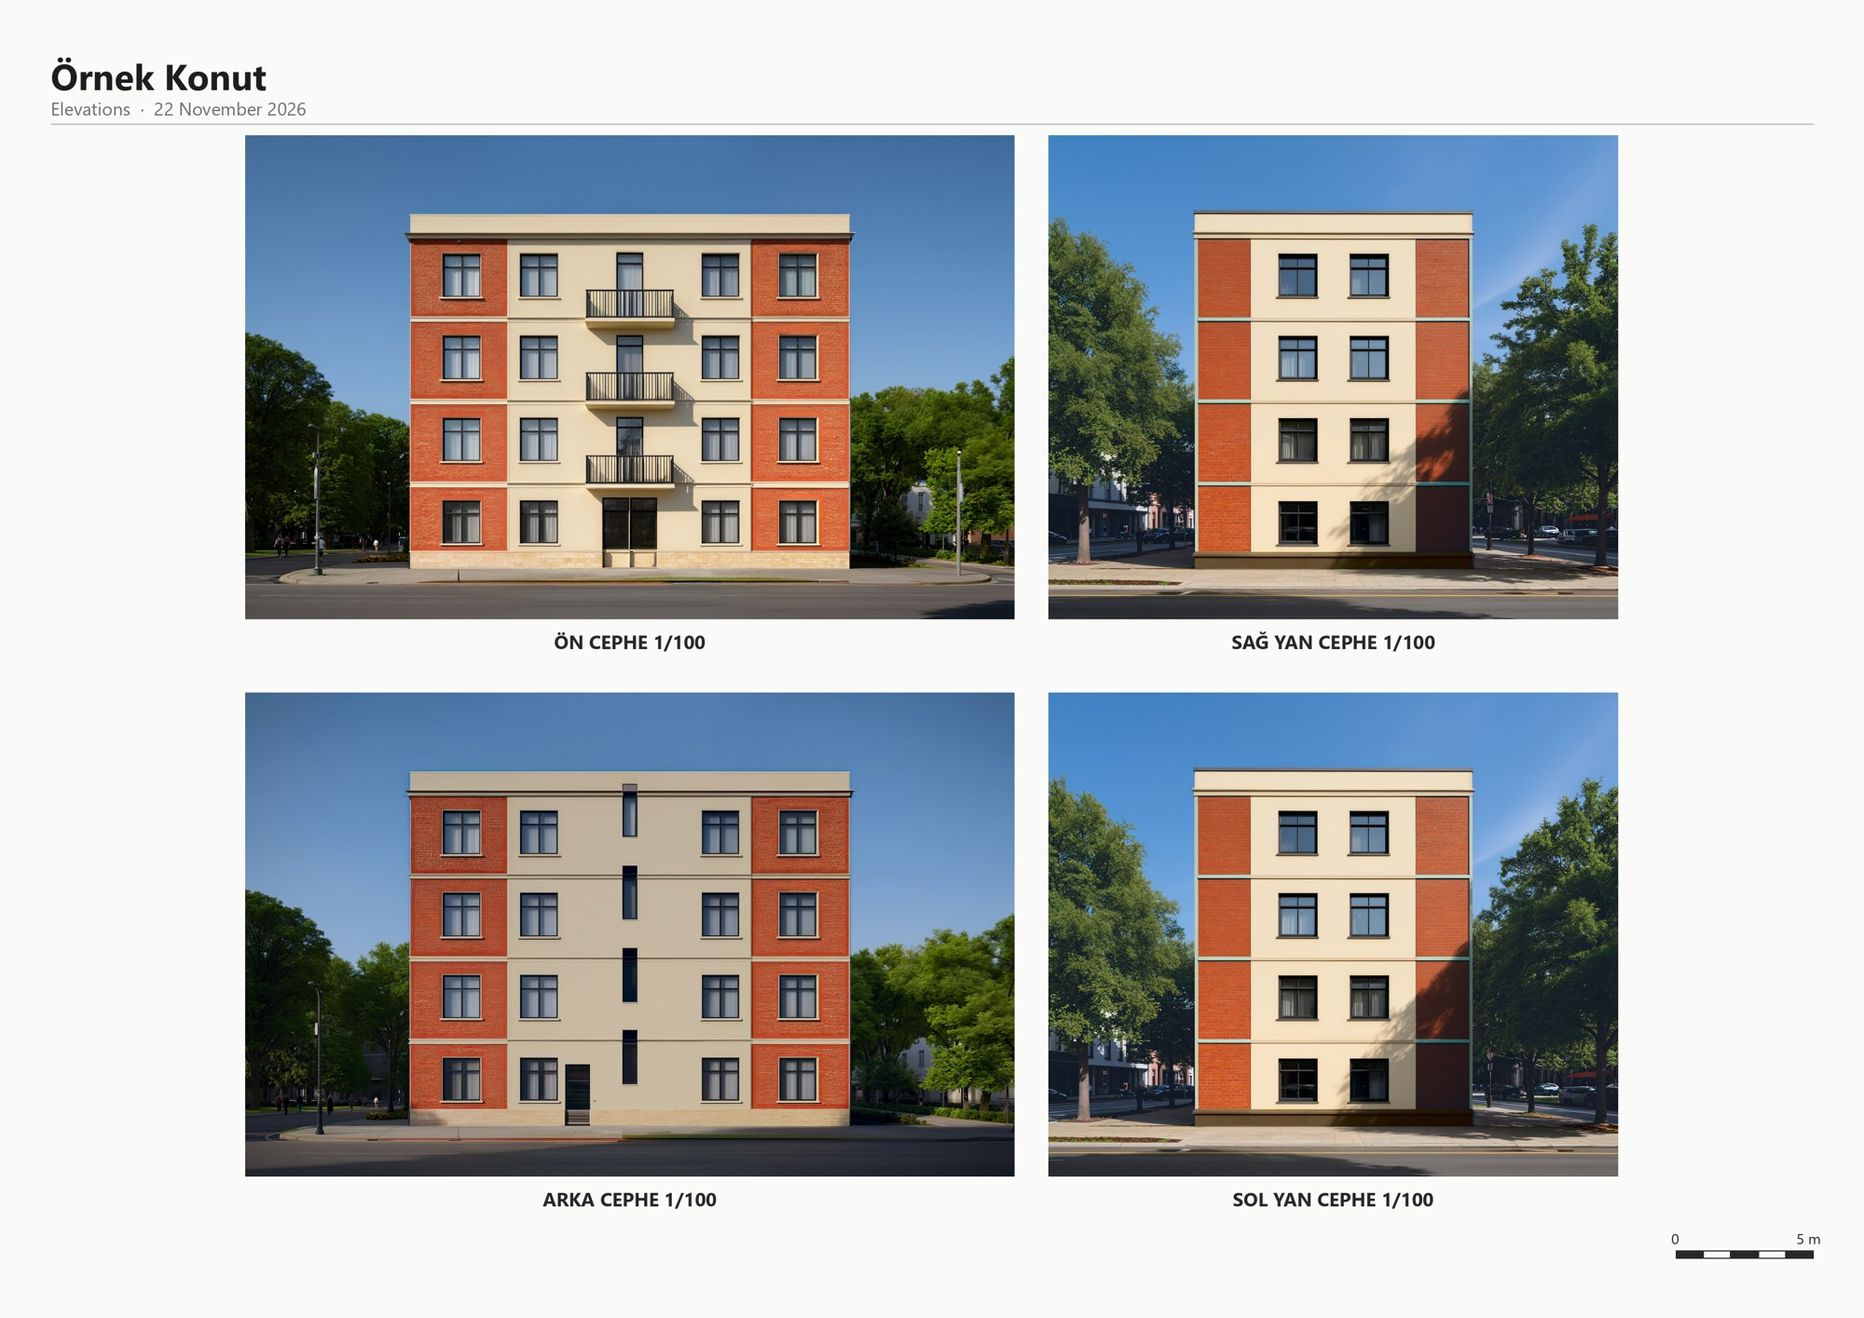
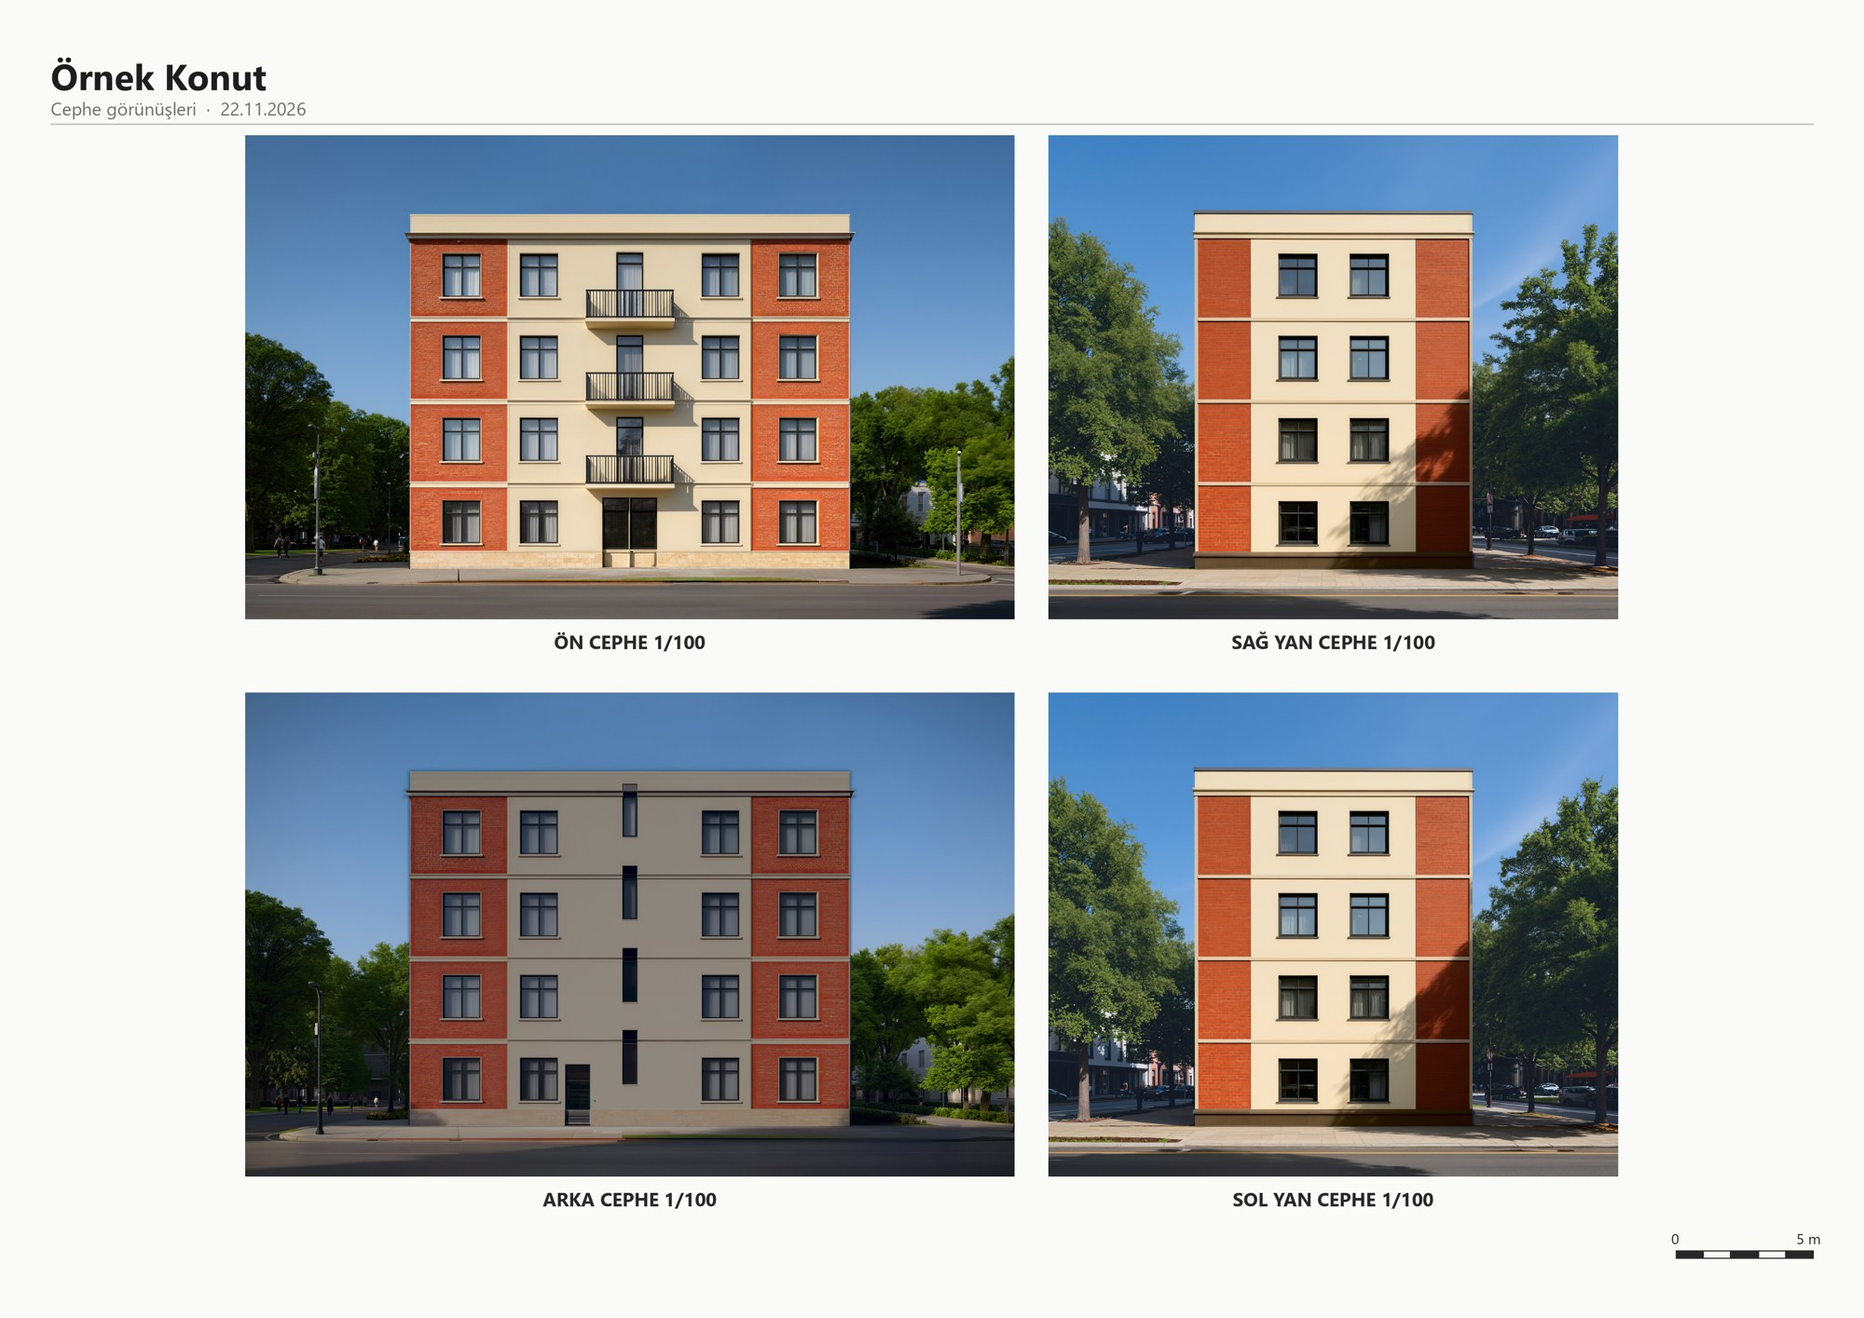
Fix showcase issues found in review
- Color matching shifts only a material's own pixels toward the hero facade
  (mean shift, no stretch), so a beige band inside a brick zone no longer
  turns mint.
- Shaded facades read as shaded: building darker, cooler and less saturated,
  with a soft shadow on the ground in front; surroundings stay sunlit.
- Drawing match treats two close parallel lines as one band; thresholds
  recalibrated (good 0.90, redraw below 0.84).
- The sample's name follows the render language, so the sheet is in one
  language.
- README: early-version note, demo note, updated limits; fresh images and
  demo from a Turkish render; unused screenshot removed.

diff --git a/core/harmonize.py b/core/harmonize.py
@@ -31,9 +31,25 @@ def _resize_mask(mask, size):
     return np.asarray(Image.fromarray(mask.astype(np.uint8) * 255).resize(size, Image.NEAREST)) > 127
 
 
+MATERIAL_SPREAD = 14.0  # Lab a/b distance at which a pixel stops counting as "the material"
+
+
 def _stats(lab, mask):
     px = lab[mask]
     return (px.mean(0), px.std(0) + 1e-3) if len(px) > 200 else None
+
+
+def _dominant_ab(lab, mask):
+    """The material's own a/b color in a zone: median of the pixels near the zone's median, so bands,
+    sills and windows inside the zone don't pull it. Returns ((a, b), count) or None."""
+    px = lab[mask][:, 1:]
+    if len(px) < 200:
+        return None
+    center = np.median(px, 0)
+    near = px[np.hypot(*(px - center).T) < MATERIAL_SPREAD]
+    if len(near) < 100:
+        return None
+    return np.median(near, 0), len(near)
 
 
 def regions(z):
@@ -60,17 +76,29 @@ def material_ok(image_path, area, expected_rgb, tol=40):
     return float(np.hypot(got[1] - want[1], got[2] - want[2])) < tol
 
 
-def shade_grade(image_path, sky_mask, out_path, darken=0.86, cool=4.0):
-    """A facade on the shadow side: a bit darker and cooler outside the sky, so the one-sun logic reads
-    across the set even where the model lit it too evenly."""
-    img = np.asarray(Image.open(image_path).convert("RGB"), np.float64)
-    lab = _srgb_to_lab(img)
-    m = ~_resize_mask(sky_mask, (img.shape[1], img.shape[0]))
-    lab[..., 0] = np.where(m, lab[..., 0] * darken, lab[..., 0])
-    lab[..., 2] = np.where(m, lab[..., 2] - cool, lab[..., 2])
+def shade_grade(image_path, building_mask, out_path, darken=0.64, cool=8.0, chroma=0.8, ground=0.18):
+    """A facade on the shadow side gets only skylight: the building clearly darker, cooler and less
+    saturated, and the ground just in front of it in its shadow (soft-edged), while the sky and the sunlit
+    surroundings stay as they are. The model tends to light every facade evenly; this makes the one-sun
+    logic read across the set."""
     from scipy import ndimage
-    diff = ndimage.gaussian_filter(_lab_to_srgb(lab) - img, sigma=(2, 2, 0))
-    Image.fromarray(np.clip(img + diff, 0, 255).astype(np.uint8)).save(out_path)
+    img = np.asarray(Image.open(image_path).convert("RGB"), np.float64)
+    H, W = img.shape[:2]
+    b = _resize_mask(building_mask, (W, H))
+    shade = ndimage.gaussian_filter(b.astype(np.float64), max(1.5, W / 800))
+    rows = np.flatnonzero(b.any(1))
+    cols = np.flatnonzero(b.any(0))
+    if rows.size:  # the building's own shadow on the ground in front: fades with distance, soft at the sides
+        y0, depth = rows[-1], max(1, int(ground * (rows[-1] - rows[0])))
+        ys = np.arange(y0, min(H, y0 + depth))
+        g = np.zeros((H, W))
+        g[ys[:, None], cols[None, :]] = (1 - (ys - y0) / depth)[:, None] * 0.75
+        shade = np.maximum(shade, ndimage.gaussian_filter(g, W / 120))
+    lab = _srgb_to_lab(img)
+    lab[..., 0] *= 1 - (1 - darken) * shade
+    lab[..., 1:] *= (1 - (1 - chroma) * shade)[..., None]
+    lab[..., 2] -= cool * shade
+    Image.fromarray(np.clip(_lab_to_srgb(lab), 0, 255).astype(np.uint8)).save(out_path)
 
 
 def harmonize(image_path, view_regions, hero_image_path, hero_regions, out_path, strength=0.8, skip=()):
@@ -84,13 +112,25 @@ def harmonize(image_path, view_regions, hero_image_path, hero_regions, out_path,
             continue
         m = _resize_mask(mask, (W, H))
         hm = _resize_mask(hero_regions[name], (hero.shape[1], hero.shape[0]))
-        s, hs = _stats(lab, m), _stats(hlab, hm)
-        if s is None or hs is None:
+        if name == "sky":
+            s, hs = _stats(lab, m), _stats(hlab, hm)
+            if s is None or hs is None:
+                continue
+            for c in (0, 1, 2):
+                target = (lab[..., c] - s[0][c]) * (hs[1][c] / s[1][c]) + hs[0][c]
+                result[..., c] = np.where(m, lab[..., c] + strength * (target - lab[..., c]), result[..., c])
             continue
-        chans = [0, 1, 2] if name == "sky" else [1, 2]
-        for c in chans:
-            target = (lab[..., c] - s[0][c]) * (hs[1][c] / s[1][c]) + hs[0][c]
-            result[..., c] = np.where(m, lab[..., c] + strength * (target - lab[..., c]), result[..., c])
+        # A material zone also holds things that aren't the material (a band crossing brick, sills, frames).
+        # Match only the material itself: its dominant color, shifted (not stretched) toward the hero's, and
+        # applied only to pixels near that color, so a beige band in a brick zone stays beige.
+        own, ref = _dominant_ab(lab, m), _dominant_ab(hlab, hm)
+        if own is None or ref is None:
+            continue
+        center, _ = own
+        dist = np.hypot(lab[..., 1] - center[0], lab[..., 2] - center[1])
+        weight = np.where(m, np.exp(-(dist / MATERIAL_SPREAD) ** 2), 0.0)
+        for c, (a, b) in zip((1, 2), zip(center, ref[0])):
+            result[..., c] += strength * weight * (b - a)
     # feather the edits a little so region borders don't show
     from scipy import ndimage
     blended = _lab_to_srgb(result)

diff --git a/core/fidelity.py b/core/fidelity.py
@@ -18,10 +18,11 @@ from . import geometry
 STEP = 2.0          # px between samples along a line
 ON = 2              # px either side of the line still counted as "on" it
 OFF = (5, 6, 7, 8)  # px either side where the texture beside the line is measured
+PARTNER = 7         # px: a parallel drawn line this close makes the two one band (see check)
 RATIO = 1.6         # an edge on the line must be this much stronger than beside it ...
 FLOOR = 0.035       # ... and at least this strong (luminance 0..1, Sobel / 8)
 WINDOW = 7          # samples smoothed along a line (~14 px), so single noisy samples don't decide
-GOOD, FAIR = 0.88, 0.80  # from past renders: blurry/drifted ones scored 0.75-0.82, sharp ones 0.88-0.97
+GOOD, FAIR = 0.90, 0.84  # from ~50 past renders (close double lines as bands): drifted or blurry 0.78-0.88, sharp 0.90-0.98
 
 
 def _gradients(img, size):
@@ -73,9 +74,22 @@ def check(view, scale, render):
         return np.abs(ndimage.map_coordinates(gx, c, order=1) * nx + ndimage.map_coordinates(gy, c, order=1) * ny)
 
     on = np.max([across(d) for d in range(-ON, ON + 1)], axis=0)
-    # beside the line, but not where another drawn line runs (double frame lines, mullions)
     control, _ = geometry.rasterize(view, scale)
-    near_line = ndimage.distance_transform_edt(np.asarray(control.convert("L")) == 0)
+    lines = np.asarray(control.convert("L")) > 0
+    near_line = ndimage.distance_transform_edt(~lines)
+    # Two drawn lines a few px apart (a band, a frame, a sill) often come out as one band with one strong
+    # edge: an edge anywhere between this line and its close neighbor counts for both.
+    reach = np.arange(-PARTNER, PARTNER + 1)
+    for s in (-1, 1):
+        partner = np.zeros(x.size)
+        for d in range(PARTNER, ON, -1):  # nearest partner wins
+            hitp = ndimage.map_coordinates(lines.astype(np.float32), [y + ny * d * s, x + nx * d * s], order=0) > 0
+            partner = np.where(hitp, d, partner)
+        if partner.any():
+            band = np.max([np.where((partner >= abs(d)) & (np.sign(d) == s), across(d), 0)
+                           for d in reach if d * s > ON], axis=0)
+            on = np.maximum(on, band)
+    # beside the line, but not where another drawn line runs (double frame lines, mullions)
     off_vals = []
     for d in OFF:
         for s in (-1, 1):

diff --git a/tests/test_core.py b/tests/test_core.py
@@ -200,3 +200,40 @@ def test_fidelity_follows_drawing(sheet, tmp_path):
     assert fidelity.check(v, scale, big)["score"] > 0.9
     out = fidelity.drift_map(big, bad["misses"], control.size, tmp_path / "drift.png")
     assert Image.open(out).size == big.size
+
+
+def test_harmonize_leaves_other_colors_in_a_material_zone(tmp_path):
+    """A beige band crossing a brick zone stays beige; only the brick moves toward the hero's brick."""
+    import numpy as np
+    from PIL import Image
+    from core.harmonize import _srgb_to_lab, harmonize
+    img = np.zeros((200, 200, 3), np.uint8)
+    img[:] = (190, 75, 45)          # brick
+    img[95:105] = (225, 210, 180)   # beige band inside the brick zone
+    hero = np.zeros_like(img)
+    hero[:] = (175, 85, 60)         # the hero's brick: a bit browner
+    Image.fromarray(img).save(tmp_path / "v.png")
+    Image.fromarray(hero).save(tmp_path / "h.png")
+    zone = np.ones((200, 200), bool)
+    harmonize(tmp_path / "v.png", {"mat:B": zone}, tmp_path / "h.png", {"mat:B": zone}, tmp_path / "o.png")
+    out = np.asarray(Image.open(tmp_path / "o.png").convert("RGB"), np.float64)
+    lab = lambda a: _srgb_to_lab(np.asarray(a, np.float64)[None, None])[0, 0]  # noqa: E731
+    band_before, band_after = lab(img[100, 100]), lab(out[100, 100])
+    assert np.hypot(*(band_after[1:] - band_before[1:])) < 3
+    brick_before, brick_after, target = lab(img[20, 20]), lab(out[20, 20]), lab(hero[20, 20])
+    assert np.hypot(*(brick_after[1:] - target[1:])) < 0.5 * np.hypot(*(brick_before[1:] - target[1:]))
+
+
+def test_shade_grade_darkens_the_building_not_the_surroundings(tmp_path):
+    import numpy as np
+    from PIL import Image
+    from core.harmonize import shade_grade
+    img = np.full((300, 400, 3), 200, np.uint8)
+    Image.fromarray(img).save(tmp_path / "f.png")
+    building = np.zeros((300, 400), bool)
+    building[60:220, 120:280] = True
+    shade_grade(tmp_path / "f.png", building, tmp_path / "f.png")
+    out = np.asarray(Image.open(tmp_path / "f.png").convert("L"), np.float64)
+    assert out[140, 200] < 0.8 * 200          # the facade is in shade
+    assert out[230, 200] < out[290, 200]      # its shadow on the ground fades away from it
+    assert abs(out[30, 30] - 200) < 2 and abs(out[150, 20] - 200) < 2  # sky and sunlit surroundings untouched

diff --git a/core/project.py b/core/project.py
@@ -196,7 +196,7 @@ class Project:
             else:
                 harmonize(raw, regs, hero[0], hero[1], final_png, skip=hero[2])
             if light == "shade":
-                shade_grade(final_png, z["sky"], final_png)
+                shade_grade(final_png, z["building"], final_png)
             if final:  # the 2K detail could still move lines: judge what the user gets
                 check = fidelity.check(v, scale, Image.open(raw))
             fidelity.drift_map(Image.open(final_png), check["misses"], control.size, out / f"{v.id}_drift.png")
@@ -209,8 +209,9 @@ class Project:
         # the sheet reads front, right, back, left (render order is about light, not reading)
         results.sort(key=lambda r: (ORDER.get(scene.facing_of(self.views[r["view"]]), 9), r["view"]))
         items = [{"image": out / r["image"], "title": r["title"], "px_per_unit": r["px_per_unit"]} for r in results]
-        png, pdf = make_sheet(items, getattr(self, "name", "Project"), out / "sheet.png", self.sheet.units_per_m,
-                              scene.lang)
+        key = getattr(self, "name_key", None)  # the sample's name follows the render's language
+        title = t(key, scene.lang) if key else getattr(self, "name", "Project")
+        png, pdf = make_sheet(items, title, out / "sheet.png", self.sheet.units_per_m, scene.lang)
         meta = {"mode": mode, "scene": scene.__dict__, "results": results, "sheet": [png.name, pdf.name],
                 "gpu": name}
         (out / "result.json").write_text(json.dumps(meta, indent=2, ensure_ascii=False, default=str), encoding="utf-8")

diff --git a/app/server.py b/app/server.py
@@ -131,7 +131,8 @@ def get_project(pid):
             abort(404)
         p = Project(folder, read_input(src))
         meta = folder / "project.json"
-        p.name = json.loads(meta.read_text(encoding="utf-8"))["name"] if meta.exists() else pid
+        info = json.loads(meta.read_text(encoding="utf-8")) if meta.exists() else {}
+        p.name, p.name_key = info.get("name", pid), info.get("name_key")
         projects[pid] = p
     return projects[pid]
 
@@ -196,16 +197,18 @@ def sample():
     src = next((ROOT / "examples").glob("ornek_proje.*"), None)
     if src is None:
         return jsonify({"error": t("sample_missing", lang())}), 404
-    return open_project(src, t("sample_name", lang()))
+    return open_project(src, t("sample_name", lang()), key="sample_name")
 
 
-def open_project(src, name):
+def open_project(src, name, key=None):
+    """key: an i18n key for the name (the sample), so the sheet shows it in the render's language."""
     try:
         p = Project.create(src, PROJECTS)
     except UserError as e:
         return jsonify({"error": e.message(lang())}), 400
-    p.name = name
-    (p.folder / "project.json").write_text(json.dumps({"name": p.name}, ensure_ascii=False), encoding="utf-8")
+    p.name, p.name_key = name, key
+    (p.folder / "project.json").write_text(json.dumps({"name": name, "name_key": key}, ensure_ascii=False),
+                                           encoding="utf-8")
     projects[p.folder.name] = p
     s = p.summary(lang())
     if not any(v["renderable"] for v in s["views"]):

diff --git a/tools/record_demo.py b/tools/record_demo.py
@@ -1,4 +1,4 @@
-"""Record the README demo: drives the running app in Edge and saves docs/demo.gif + docs/arayuz.png.
+"""Record the README demo: drives the running app in Edge and saves docs/demo.gif.
 
     python tools/record_demo.py <result.json of a finished presentation render> [--lang tr]
 
@@ -63,7 +63,6 @@ def main():
         page.wait_for_timeout(1200)
         shot(500)
         scroll_to(top_of("#s-views"))
-        page.screenshot(path=str(ROOT / "docs" / "arayuz.png"))
         shot(2200)
         scroll_to(top_of("#s-scene"))
         shot(2300)  # left as rendered: the result shown below was made with these settings

diff --git a/README.md b/README.md
@@ -6,7 +6,13 @@ DWG dosyanızı bırakın. Cephe bütün görünüşleri bulur ve hepsini aynı 
 bir güneş altında render eder. Sonuç, aynı binanın fotoğrafları gibi duran bir A3 paftadır. Prompt yazmak, ayar
 bilmek gerekmez. Her şey kendi bilgisayarınızda çalışır; çizimleriniz dışarı çıkmaz.
 
+> **Erken sürüm.** Şimdiye kadar yalnızca depodaki örnek çizimle ve tek bir bilgisayarda (RTX 4050, 6 GB)
+> denendi. Gerçek ofis çizimleriyle ve temiz bir Windows'ta kurulumla henüz denenmedi. Sorun çıkarsa lütfen
+> bir issue açın.
+
 ![Demo: örnek projeyi açma, sahneyi seçme, sunum paftası ve çizime uyum](docs/demo.gif)
+
+*Demoda render'ı bekleme kısmı atlandı: dört cephenin sunum render'ı bu bilgisayarda yaklaşık 15 dakika sürüyor.*
 
 [English below](#english)
 
@@ -54,7 +60,10 @@ belirgin biçimde güçlü bir kenar var mı? Sonuç her cephenin altında **"Ç
 
 ![Solda render, sağda farklar: kırmızı çizgiler render'ın çizimden ayrıldığı yerler](docs/uyum.jpg)
 
-Puan %80'in altına düşerse o cephe başka bir varyasyonla bir kez daha çizilir ve çizime daha iyi uyan sürüm
+Birbirine çok yakın iki çizgi (bir bant, bir çerçeve) render'da tek bir bant olarak çıkarsa, aradaki kenar ikisi
+için de sayılır.
+
+Puan %84'ün altına düşerse o cephe başka bir varyasyonla bir kez daha çizilir ve çizime daha iyi uyan sürüm
 tutulur. Bu kontrol 2K detaydan önce, hızlı ilk geçişte yapılır; böylece zaman kaybı az olur.
 
 ## Kurulum
@@ -105,10 +114,10 @@ Türkçeye geçer. Türkçe ve İngilizce başlıklı çizimler iki dilde de tan
 
 - **Sunum içindir, uygulama projesi için değil.** Ölçüsel doğruluk garanti edilmez.
 - **Çizime uyum kontrolü çizgilere bakar, anlama değil.** Kaybolan ya da kayan çizgiyi bulur (eksik bir kayıt,
-  yanlış sayıda korkuluk). Render'ın çizimde olmayan bir şey eklemesini henüz yakalamaz. Birbirine çok yakın
-  çift çizgiler (bant, çerçeve) render'da tek çizgi olunca kısmen fark sayılır.
-- **Işık ve gölge yönlendirilir, fiziksel olarak hesaplanmaz.** Balkon gölgesinin boyu gibi ayrıntılar
-  yaklaşıktır.
+  yanlış sayıda korkuluk). Render'ın çizimde olmayan bir şey eklemesini henüz yakalamaz.
+- **Işık ve gölge yönlendirilir, fiziksel olarak hesaplanmaz.** Gölgedeki cephe render'dan sonra koyulaştırılır;
+  balkon gölgesinin boyu gibi ayrıntılar yaklaşıktır.
+- **Her cephenin çevresi ayrı üretilir.** Bina aynıdır ama arkadaki ağaçlar ve sokak cepheden cepheye değişir.
 - **Şimdilik yalnızca cepheler.** Kesit ve plan render'ı, PDF ve görsel girdi sonraki sürümlerde.
 
 ## Nasıl çalışır
@@ -161,7 +170,11 @@ Drop in a DWG file. Cephe ("facade" in Turkish) finds every elevation and render
 materials, the same sky, one scale and one sun, so they read as photos of one building, laid out on an A3
 sheet. No prompts to write, no settings to learn. Everything runs on your own computer; your drawings never
 leave it. The demo and sample sheet at the top of this page were made from
-[examples/ornek_proje.dwg](examples/ornek_proje.dwg) in this repository.
+[examples/ornek_proje.dwg](examples/ornek_proje.dwg) in this repository (the demo skips the ~15 minute wait
+for the render).
+
+> **Early version.** So far tested only with the sample drawing on one computer (RTX 4050, 6 GB); not yet with
+> real office drawings or a clean Windows install. Please open an issue if something breaks.
 
 **What it does**
 
@@ -197,8 +210,9 @@ pattern names the material (`BRICK`, `STONE`, `CONCRETE`, `WOOD`, `METAL`, `GLAS
 `TUGLA`, `TAS`, `BETON`…); keep drawings apart in model space. Layers that are off or frozen are left out.
 
 **Limits.** For presentation, not construction documents. The drawing-match check finds lost or moved lines but
-not things the render adds; close double lines drawn as one count partly as misses. Light and shadow are
-steered, not physically simulated. Elevations only for now; sections, plans, PDF and image inputs come later.
+not things the render adds. Light and shadow are steered, not physically simulated (a facade in shade is graded
+darker after rendering). Each facade's surroundings are generated separately, so trees and street differ from
+one facade to the next. Elevations only for now; sections, plans, PDF and image inputs come later.
 
 **License.** No open-source license has been chosen yet: the code is public to read, all rights reserved. The
 models have their own licenses (Z-Image-Turbo and Fun Union ControlNet by Alibaba, RealESRGAN); check them before
